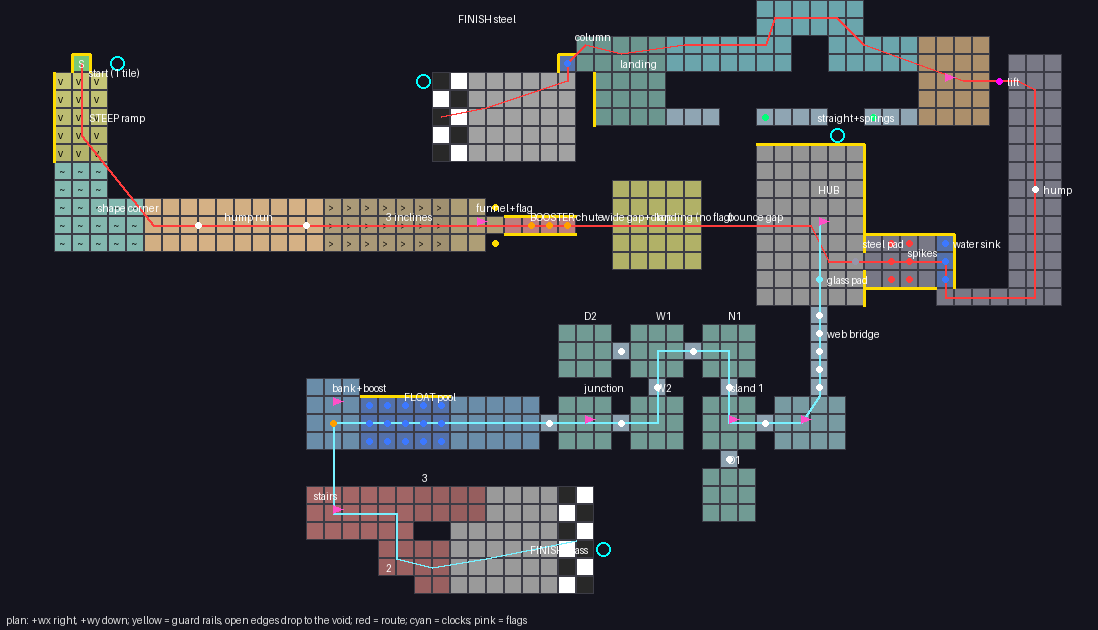
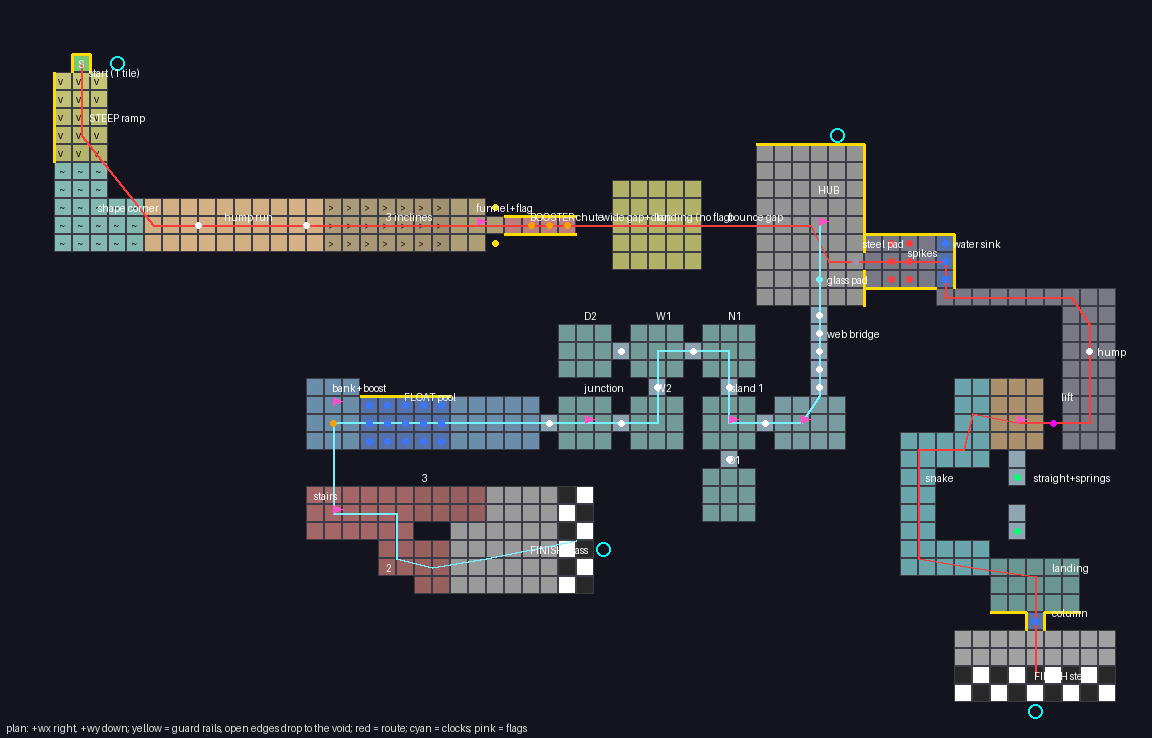
Bonanza DOWN rev 16: steel's end moved to the picture's empty bottom-right, all of it in view
The owner, after playing rev 15: the column and the finish were hidden
behind the main line, the 1-wide straight stunned steel (a spring at 640
lands from 5 units), it was not in line with the lift and flag, and steel
ran about 10 s long. Now: the beam on east, the run SOUTH with the momentum
hump, the LIFT off the run's foot to the west, ridden straight, its front
open; a flag on its top; the straight 1 wide from the flag with a spring at
the lip of each of two 1-TILE gaps (384: clears it, no stun - steel cannot
cross a 1-tile gap unsprung), or the 2-wide snake west; the landing, its
front step the 6-deep column, the finish below it, the lowest thing on the
screen. The visibility audit: no hidden stretch over 0.5 s. Picture part
53,150 bytes (63,302 before: nothing north of the hub now). Autopilot:
steel 45.0 s by the snake, 42.6 s by the straight; glass 39.2 s. Also
merges the soak-row fixes for the sheets work (bonanzasheet, bonanzaphyshost,
bonanzacourse, bonanzaexit).

Claude-Session: https://claude.ai/code/session_01Wo8a4suEiDfFPFBsnHYKF3

diff --git a/docs/plans/bonanza-courses/down/sketch.py b/docs/plans/bonanza-courses/down/sketch.py
@@ -209,30 +209,33 @@ for y in range(13, 16):
 # water's EAST arch, north over a SPIKE CARPET (steel rolls over what kills the others), UP the lift 4, then west
 # along the top, a momentum hump and a ramp down to the finish in the north-west.  Width 160 (1,280 px)
 rail(53, 13, 53, 16, "guard")                                # the water's east face a guard (its front, +y, the arch)
-floor("T", 52, 16, 56, 17, Z - 29)                           # the ARCH's exit (+y, as before) at the bed, a pier east: the slow BEAM
-# rev 15 (the owner): no second spikes (steel knows them) - the run north 3 wide with the MOMENTUM hump across
-# it; the LIFT on the run's WEST side, its shaft seen beside the path; then a CHOICE west - a straight 1-wide
-# path with two SPRING jumps over 2-tile gaps, or a safer 2-wide SNAKE - to a landing whose last step is a WATER
-# column 6 deep, steel sinking down it and out of its front arch onto the finish
-floor("T", 56, 3, 59, 17, Z - 29)                            # the run NORTH, 3 wide
-mark(57.5, 10.5, "hump", "hump")                             #   the momentum hump across it (EXTRA)
-mark(55.5, 4.5, "lift", "LIFT up 4")                         # the LIFT, on the run's west side
-floor("H", 51, 2, 55, 7, Z - 25)                             # its top: the choice's start (a flag)
-floor("K", 48, 6, 51, 7, Z - 25)                             # STRAIGHT, 1 wide: a spring at its lip (48, 6),
-floor("K", 42, 6, 46, 7, Z - 25)                             #   a 2-tile gap, on beside the hub's rail, a spring at
-floor("K", 37, 6, 40, 7, Z - 25)                             #   the next lip (42, 6), a 2-tile gap, on to the landing
-for sx, sy in ((48, 6), (42, 6)):
+floor("T", 52, 16, 55, 17, Z - 29)                           # the ARCH's exit (+y, as before) at the bed, a pier east: the slow BEAM
+# rev 16 (the owner, after playing rev 15): the end of steel's leg moved to the picture's empty BOTTOM-RIGHT, in
+# front of everything, so all of it shows: the beam longer, the run SOUTH with the momentum hump; the LIFT at its
+# foot, its front and side open (the shaft reads as a hole), up 4 onto a platform to the west (a flag by the
+# lift); then the CHOICE south - a 1-wide straight from the flag, a spring at the lip of each of two 1-tile gaps
+# (384: no stun), or a safer 2-wide snake west - to a landing; its front step the WATER column 6 deep, steel
+# sinking down it and out of its front arch onto the finish below, the lowest thing on the screen
+floor("T", 55, 16, 59, 17, Z - 29)                           # (the beam, on east)
+floor("T", 59, 16, 62, 25, Z - 29)                           # the run SOUTH, 3 wide
+mark(60.5, 19.5, "hump", "hump")                             #   the momentum hump across it (EXTRA)
+mark(58.5, 23.5, "lift", "LIFT up 4")                        # the LIFT, off the run's foot to the west, ridden straight;
+                                                             #   its front open (the shaft reads as a hole)
+floor("H", 55, 21, 58, 25, Z - 25)                           # its top (a flag by the lift)
+floor("K", 56, 25, 57, 27, Z - 25)                           # STRAIGHT, 1 wide, from the flag: a spring at its lip (56, 26),
+floor("K", 56, 28, 57, 30, Z - 25)                           #   a 1-tile gap, on, a spring at the next lip (56, 29),
+for sx, sy in ((56, 26), (56, 29)):                          #   a 1-tile gap, on to the landing
     mark(sx + 0.5, sy + 0.5, "spring", "spring")
-floor("N", 46, 2, 51, 4, Z - 25)                             # the SNAKE, 2 wide: west,
-floor("N", 42, 0, 48, 2, Z - 25)                             #   up and west,
-floor("N", 37, 2, 44, 4, Z - 25)                             #   down and west, to the landing
-floor("C", 33, 2, 37, 7, Z - 25)                             # the LANDING both reach
-floor("C", 32, 2, 33, 4, Z - 25)                             #   and its step west to the column
-rail(33, 4, 33, 7)                                           # (its west edge railed: no roll off onto the finish)
-floor("W", 31, 3, 32, 4, Z - 25)                             # the WATER column, 6 deep
-mark(31.5, 3.5, "water", "")
-rail(31, 3, 32, 3, "guard"); rail(31, 3, 31, 4, "guard")    # sealed north and west, its arch +y
-floor("G", 24, 4, 32, 9, Z - 31)                             # FINISH 1, steel (exit 0), at the column's bed
+floor("N", 53, 21, 55, 26, Z - 25)                           # the SNAKE, 2 wide: south,
+floor("N", 50, 24, 53, 26, Z - 25)                           #   west,
+floor("N", 50, 26, 52, 30, Z - 25)                           #   south,
+floor("N", 50, 30, 55, 32, Z - 25)                           #   and east to the landing
+floor("C", 55, 31, 60, 34, Z - 25)                           # the LANDING both reach
+floor("W", 57, 34, 58, 35, Z - 25)                           # the WATER column, 6 deep, at its front
+mark(57.5, 34.5, "water", "")
+rail(55, 34, 57, 34, "guard"); rail(58, 34, 60, 34, "guard")    # the landing's front a guard rail but the column's
+rail(57, 34, 57, 35, "guard"); rail(58, 34, 58, 35, "guard")    #   way in; the column sealed either side, its arch +y
+floor("G", 53, 35, 62, 39, Z - 31)                           # FINISH 1, steel (exit 0), at the column's bed
 # 3b. GLASS (south, +y): a WEB BRIDGE, then (rev 10, the owner) WEST at the bridge's height - no lift (it goes to
 # steel, which climbs): a WEB MAZE of solid islands joined by ONE-cell membrane links (glass-only, easy to
 # steer), the old plateau its first island; a FLOAT pool (water, no arch) as one crossing; a BOOST off the far
@@ -274,7 +277,7 @@ floor("Z", 21, 30, 23, 32, Z - 31)                           # the way ROUND: 2,
 floor("Z", 23, 30, 25, 33, Z - 32)                           #   1, then 2 onto the finish
 floor("V", 27, 27, 33, 29, Z - 34)                           # FINISH 2, glass (exit 1): an L round the two ways
 floor("V", 25, 29, 33, 33, Z - 34)
-GOAL = {(x, y) for x in range(24, 26) for y in range(4, 9)} | {(x, y) for x in range(31, 33) for y in range(27, 33)}
+GOAL = {(x, y) for x in range(53, 62) for y in range(37, 39)} | {(x, y) for x in range(31, 33) for y in range(27, 33)}
 
 # the PROPS the sketch does not model, as the engine's statements (world cells: sketch + OFF)
 def _w(x):
@@ -303,36 +306,36 @@ EXTRA = [
 ] + ["prop membrane %d %d %d %d" % (_w(lx), _w(ly), _w(lx + 1), _w(ly + 1)) for lx, ly in LINKS] + [
     "water rect %d %d %d %d top %g bed %g open" % (_w(20), _w(22), _w(25), _w(25), Z - 26, Z - 29),
     "prop boost %d %d face +y strength 40" % (_w(18), _w(23)),   # (rev 13: a row back from the edge - the Hop is pressed on plain floor)
-    "# steel (rev 15): the momentum hump across the run north, the LIFT up 4 on its west side, the column",
-    "hump %d %d %g along x 3 open height 8" % (_w(56), _w(10), Z - 29),
-    "prop platform %d %d 4" % (_w(55), _w(4)),
-    "water rect %d %d %d %d top %g bed %g" % (_w(31), _w(3), _w(32), _w(4), Z - 25, Z - 31),
-    "arch %d %d +y" % (_w(31), _w(3)),
-] + ["spring %d %d 640" % (_w(sx), _w(sy)) for sx, sy in ((48, 6), (42, 6))] + [   # (SPEC.md 130.14: 640 clears 2 tiles from a steel roll)
+    "# steel (rev 16): the momentum hump across the run south, the LIFT up 4 in line at its end, the column",
+    "hump %d %d %g along x 3 open height 8" % (_w(59), _w(19), Z - 29),
+    "prop platform %d %d 4" % (_w(58), _w(23)),
+    "water rect %d %d %d %d top %g bed %g" % (_w(57), _w(34), _w(58), _w(35), Z - 25, Z - 31),
+    "arch %d %d +y" % (_w(57), _w(34)),
+] + ["spring %d %d 384" % (_w(sx), _w(sy)) for sx, sy in ((56, 26), (56, 29))] + [   # (SPEC.md 130.14: 384 clears 1 tile, no stun)
 ]
-GOAL_RECTS = [(24, 4, 26, 9, Z - 31, 0, "steel"), (31, 27, 33, 33, Z - 34, 1, "glass")]
+GOAL_RECTS = [(53, 37, 62, 39, Z - 31, 0, "steel"), (31, 27, 33, 33, Z - 34, 1, "glass")]
 
 START = (4.5, 4.5 - N)
 FLAGS = [(26.5, 12.5, "flag 0", "rubber"), (45.5, 12.5, "flag 1", "rubber"), (44.5, 23.5, "flag 2", "glass"),
          (40.5, 23.5, "flag 3", "glass"), (32.5, 23.5, "flag 4", "glass"), (18.5, 22.5, "flag 5", "glass"), (18.5, 28.5, "flag 7", "glass"),
-         (52.5, 4.5, "flag 6", "steel")]       # (rev 4: no flag at steel's entrance; one on the lift's top too)
-CLOCKS = [(6.5, 4.5 - N, Z, "start", "block"), (46.5, 7.5, Z - 24.5, "hub", "block"), (23.5, 4.5, Z - 29.5, "steel finish", "block"),
+         (56.5, 23.5, "flag 6", "steel")]       # (rev 4: no flag at steel's entrance; one on the lift's top too)
+CLOCKS = [(6.5, 4.5 - N, Z, "start", "block"), (46.5, 7.5, Z - 24.5, "hub", "block"), (57.5, 39.5, Z - 29.5, "steel finish", "block"),
           (33.5, 30.5, Z - 32.5, "glass finish", "block")]
 FRAMES = {}
 PLACED = {}
 SIGNS = []
 ROUTE = [(4.5, 4.5 - N), (4.5, 8.5 - N), (8.5, 12.5), (18, 12.5), (25, 12.5), (28, 12.5), (32, 12.5), (37, 12.5),
-         (45, 12.5), (46, 14.5), (48, 14.5), (52.5, 14.5), (52.5, 16.5), (57.5, 16.5), (57.5, 8), (57.5, 5), (56.5, 4.5),
-         (53.5, 4.5), (48, 2.5), (46.5, 1), (43, 1), (42.5, 2.5), (38, 2.5), (34.5, 3), (32.5, 2.5),
-         (31.5, 3.5), (31.5, 4.5), (27, 6), (24.5, 6.5)]
+         (45, 12.5), (46, 14.5), (48, 14.5), (52.5, 14.5), (52.5, 16.5), (59.5, 16.5), (60.5, 18), (60.5, 21), (60.5, 23.5), (59.5, 23.5),
+         (56.5, 23.5), (54, 23), (53.5, 25), (51, 25), (51, 28), (51, 31), (54, 31.5), (57.5, 32), (57.5, 34.5),
+         (57.5, 35.5), (57.5, 37.5)]
 ROUTE2 = [(45.5, 12.5), (45.5, 17), (45.5, 22), (44.5, 23.5), (40.5, 23.5), (40.5, 19.5), (36.5, 19.5), (36.5, 23.5),
           (32.5, 23.5), (27, 23.5),
           (22, 23.5), (18.5, 23.5), (18.5, 28.5), (22, 28.5), (22, 31), (24, 31.5), (27, 31), (32, 30)]
 LABELS = [(4.5, 4.5, "start (1 tile)"), (4.5, 7, "STEEP ramp"), (5, 12, "shape corner"), (12, 12.5, "hump run"),
           (21, 12.5, "3 inclines"), (26, 12, "funnel+flag"), (29, 12.5, "BOOSTER chute"), (33, 12.5, "wide gap+drop"),
           (36, 12.5, "landing (no flag)"), (40, 12.5, "bounce gap"), (45, 11, "HUB"), (47.5, 14, "steel pad"),
-          (50, 14.5, "spikes"), (52.5, 14, "water sink"), (57.5, 11, "hump"), (55.5, 5, "lift"), (45, 7, "straight+springs"), (44, 0, "snake"), (34, 4, "landing"), (31.5, 2.5, "column"), 
-          (25, 1.5, "FINISH steel"), (45.5, 16, "glass pad"), (45.5, 19, "web bridge"), (40, 22, "island 1"), (40, 18, "N1"), (36, 18, "W1"), (36, 22, "W2"), (32, 22, "junction"), (40, 26, "D1"), (32, 18, "D2"),
+          (50, 14.5, "spikes"), (52.5, 14, "water sink"), (60.5, 20, "hump"), (58.5, 22.5, "lift"), (57, 27, "straight+springs"), (51, 27, "snake"), (58, 32, "landing"), (58, 34.5, "column"), 
+          (57, 38, "FINISH steel"), (45.5, 16, "glass pad"), (45.5, 19, "web bridge"), (40, 22, "island 1"), (40, 18, "N1"), (36, 18, "W1"), (36, 22, "W2"), (32, 22, "junction"), (40, 26, "D1"), (32, 18, "D2"),
           (22, 22.5, "FLOAT pool"), (18, 22, "bank+boost"), (17, 28, "stairs"), (23, 27, "3"), (21, 32, "2"), (29, 31, "FINISH glass")]
 
 # --- drawing ----------------------------------------------------------------
